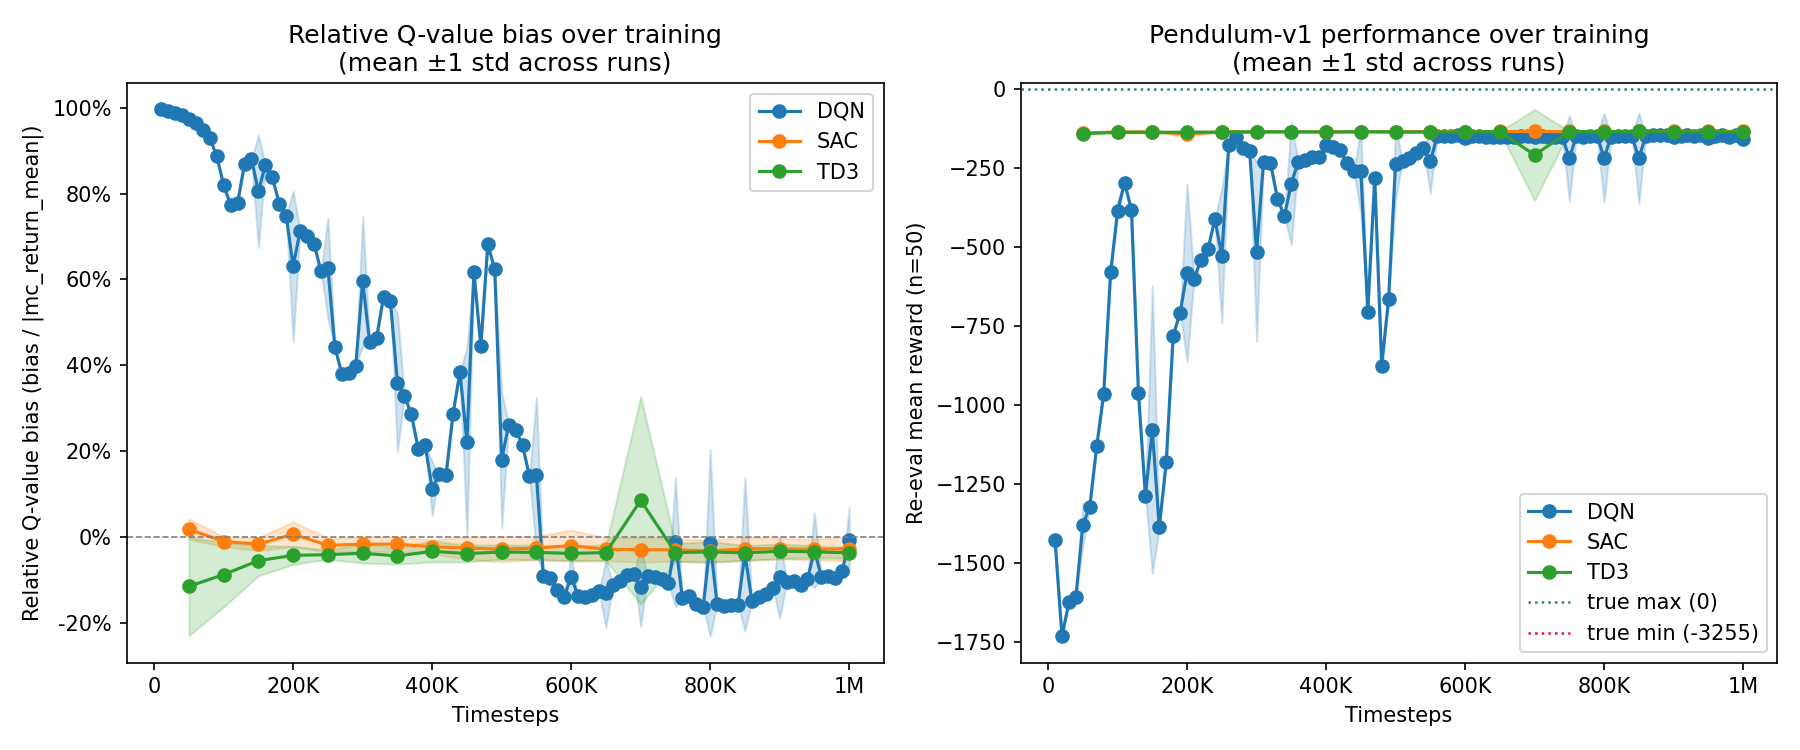
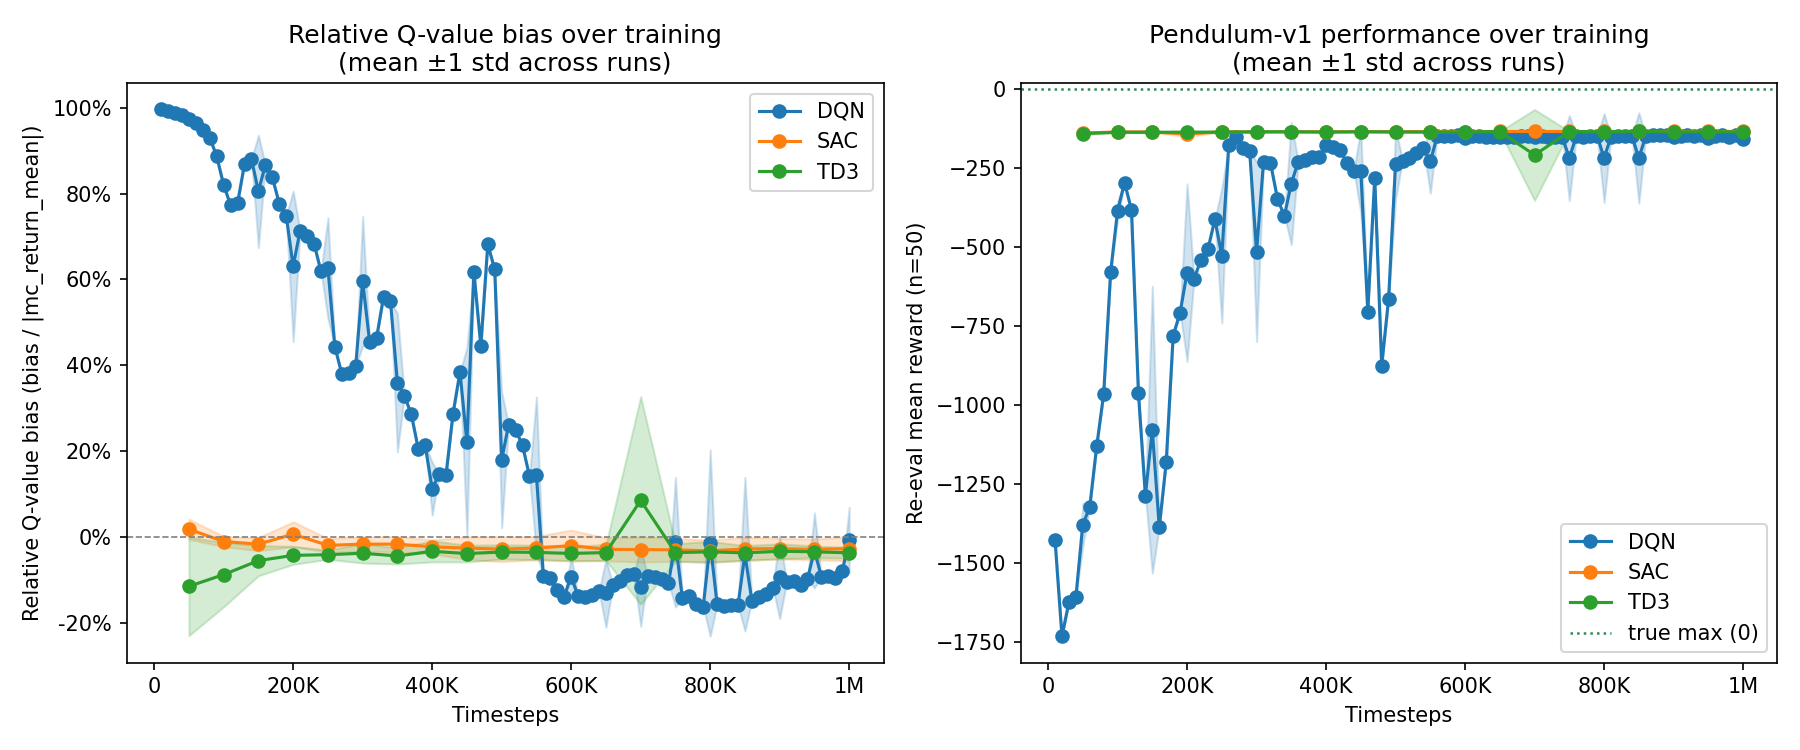
update plots

Changed region(s): [[0.84, 0.644, 0.9644, 0.8587]]

diff --git a/evaluate_models.py b/evaluate_models.py
@@ -80,12 +80,13 @@ CHECKPOINT_TAG_LABELS = {
     "old": "old",
 }
 
-# True episode-reward bounds per environment
+# True best-possible episode reward per environment (worst-possible only
+# for CartPole-v1)
 #   CartPole-v1: +1 reward/step, max_episode_steps=500 -> [0, 500]
-#   Pendulum-v1: [-16.2736.., 0], times max_episode_steps=200
+#   Pendulum-v1: max reward is 0 as there are only negative "rewards"
 ENV_REWARD_BOUNDS = {
     "CartPole-v1": (0.0, 500.0),
-    "Pendulum-v1": (-(np.pi ** 2 + 0.1 * 8 ** 2 + 0.001 * 2 ** 2) * 200, 0.0),
+    "Pendulum-v1": (None, 0.0),
 }
 
 
@@ -486,8 +487,8 @@ def plot_checkpoint_progression(all_ckpt_rows: dict[str, list[dict]], out_path: 
     sharing that (algo, env_id) group, with a shaded +/-1 std band across those
     runs at each checkpoint_steps value.
 
-    The performance panel marks each environment's true min/max possible
-    episode reward.
+    The performance panel marks each environment's true best-possible
+    episode reward and the worst-possible one for CartPole-v1 only.
     """
     written: list[Path] = []
     for env_id, by_algo in sorted(_group_checkpoints_by_env_algo(all_ckpt_rows).items()):
@@ -518,15 +519,13 @@ def plot_checkpoint_progression(all_ckpt_rows: dict[str, list[dict]], out_path: 
         ax2.set_ylabel(f"Re-eval mean reward (n={RE_EVAL_N_EPISODES})")
         ax2.set_title(f"{env_id} performance over training\n(mean ±1 std across runs)")
         if env_id in ENV_REWARD_BOUNDS:
-            # Capture the data-driven range first: a distant true bound (e.g.
-            # Pendulum's -3255 floor vs. a typical -1500 worst case) would
-            # otherwise stretch the axis and compress the actual variation
-            # into a sliver of the plot. The exact value stays in the legend
-            # even when the line itself falls outside the visible range.
+            # Capture the data-driven range first, a true bound far outside
+            # it would otherwise stretch the axis.
             data_ylim = ax2.get_ylim()
             true_lo, true_hi = ENV_REWARD_BOUNDS[env_id]
             ax2.axhline(true_hi, color="seagreen", linestyle=":", linewidth=1.2, label=f"true max ({true_hi:.0f})")
-            ax2.axhline(true_lo, color="crimson", linestyle=":", linewidth=1.2, label=f"true min ({true_lo:.0f})")
+            if true_lo is not None:
+                ax2.axhline(true_lo, color="crimson", linestyle=":", linewidth=1.2, label=f"true min ({true_lo:.0f})")
             ax2.set_ylim(data_ylim)
         ax2.legend()
 
